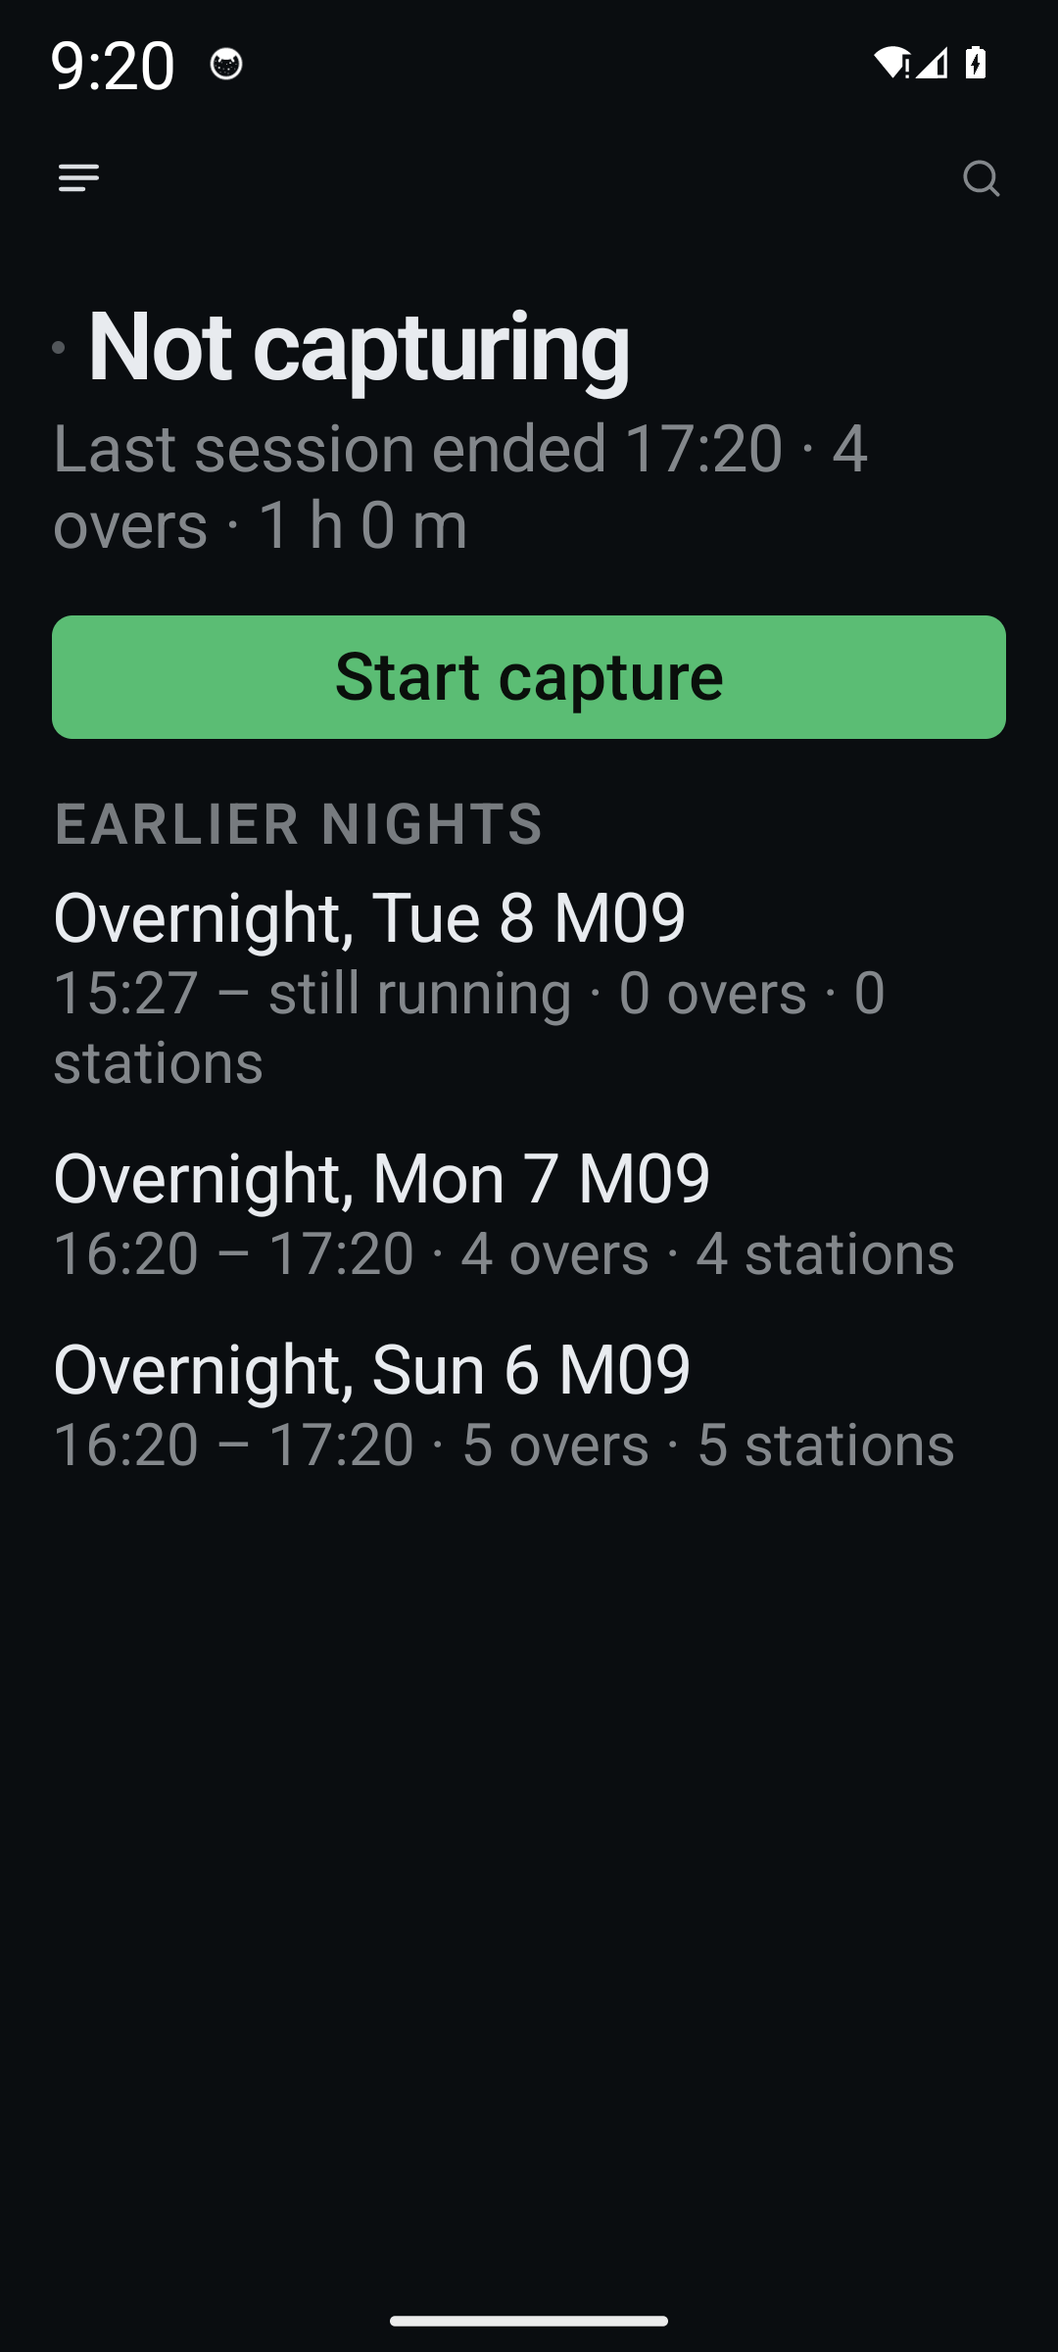
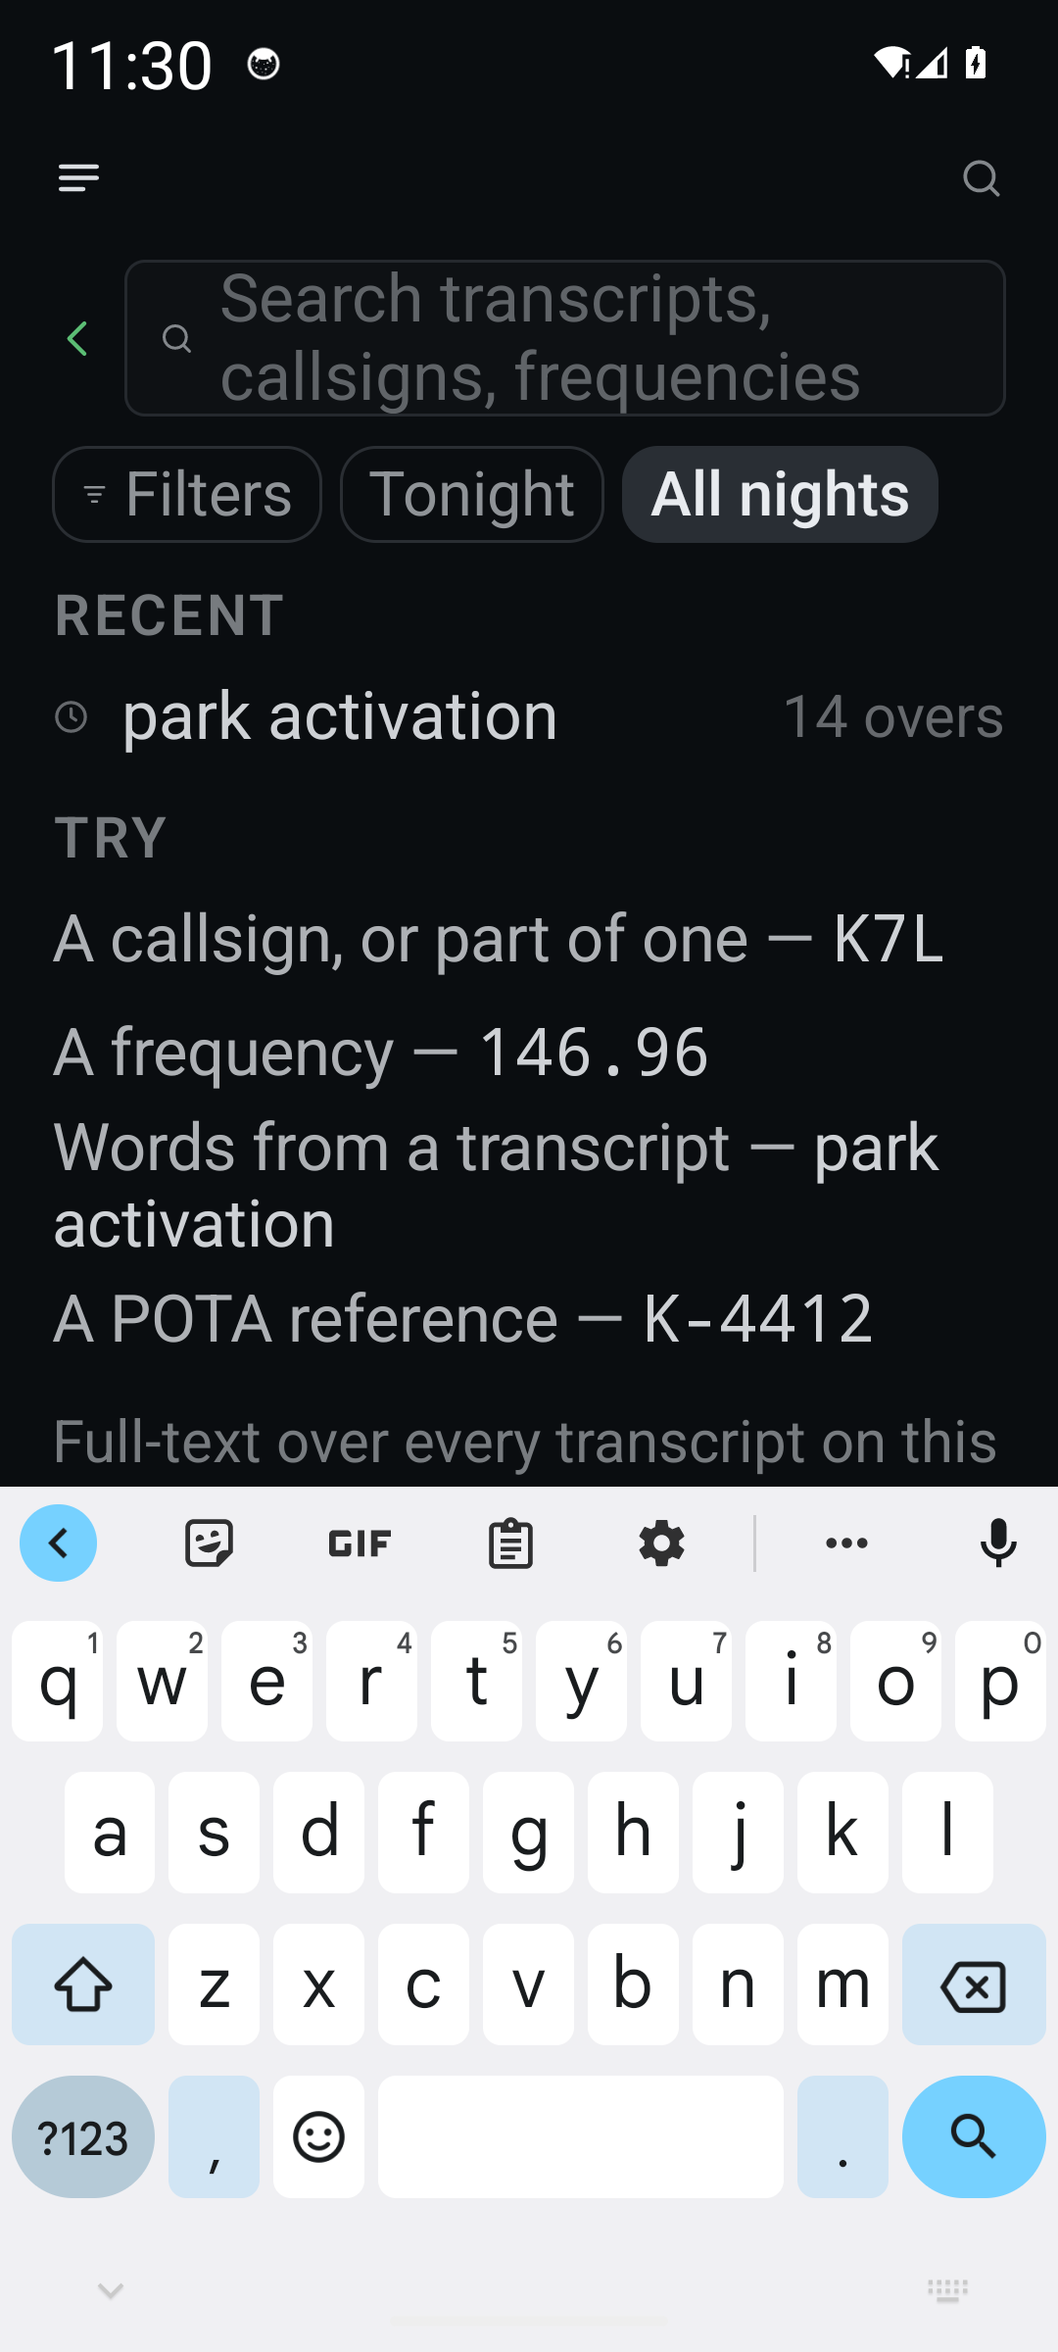
ui-conformance · V5 pass 2 at 8d1456f: 17 rows closed; R-270..R-277 filed (R-272 Split halt); screenshots

diff --git a/results/ui-audit/register.md b/results/ui-audit/register.md
@@ -115,7 +115,7 @@ in the row).
 | R-071 | station | `Station` | Detail is title + "N transmissions" + two charts + "THIS WEEK VS LAST" caption lines + non-tappable rows. The artboard: a facts table (overs with `Log`, attribution split, frequencies, first/last heard), "When they are around" with a legend line and a one-sentence summary, `Recent overs` with `All 612`, rows that open the over. Rows must be tappable (intent §0). | design | fixed |
 | R-072 | station › pattern | `Station-Pattern`, FR-UI-11/12 | Day-of-week is rendered as a second bar chart. The artboard is an hour × day grid with the not-listening hatch per cell, a three-swatch legend, a By hour / Hour × day / Change over time toggle, and a "What this says" list that names the unknown days and hours explicitly. The week-over-week text lines are the "change over time" data and belong under that toggle. | design | fixed |
 | R-073 | station › identity | `Station-Identity`, FR-SPK-10, constitution III | Absent: how the station is known (heard / lexicon / voiceprint cluster / name you gave), the never-leaves-the-device statement, `Rename`, `Split`. | spec | fixed |
-| R-074 | frequencies | `Frequencies`, `Frequency`, `Frequency-Change` | List rows are frequency + count. The artboard: what it is (repeater · band · mode), tonight's count and station count, a 14-night sparkline with hatched nights, "busier than usual" in amber. Detail lacks the facts table (offset, tone, listened hours, nets), the typical-night chart, `Regulars`. `Frequency-Change` (departure vs usual, with the cause) is absent. | design V5 @f8430b8: NOT fixed on device — FQ02 facts (Listened / Nets rows), subtitle (offset · tone · type), chart axis labels and caption still missing; see R-216. WP8 @c013149: Listened/Nets rows, chart axis+caption+More added; repeater offset/tone stays omitted (no :data column). | spec | fixed |
+| R-074 | frequencies | `Frequencies`, `Frequency`, `Frequency-Change` | List rows are frequency + count. The artboard: what it is (repeater · band · mode), tonight's count and station count, a 14-night sparkline with hatched nights, "busier than usual" in amber. Detail lacks the facts table (offset, tone, listened hours, nets), the typical-night chart, `Regulars`. `Frequency-Change` (departure vs usual, with the cause) is absent. | design V5 @f8430b8: NOT fixed on device — FQ02 facts (Listened / Nets rows), subtitle (offset · tone · type), chart axis labels and caption still missing; see R-216. WP8 @c013149: Listened/Nets rows, chart axis+caption+More added; repeater offset/tone stays omitted (no :data column). | spec | closed |
 | R-075 | station, frequency | `Charts` | Chart title says "(UTC)" while `ReaderPolling` buckets day-of-week in `ZoneId.systemDefault()`. Artboards and the operator's expectation are local time on both. Resolve to local, and drop the zone from the title. | spec | fixed |
 
 ## Setup — WP9
@@ -217,22 +217,22 @@ Filed by the emulator validators (plan §E) against the build named in each row;
 | R-178 | every banner @2x | `Fail-Storage`, `Main`, `Capture-Status` | V2 @3e2d4ee: at font scale 2.0 the banner grows but the content beneath does not move down — Now's failed-state title and Capture-Status's elapsed line render behind the banner's bottom edge. Resolves with the banner-in-content-column fix (R-164). `storage-warn/F06-banner@2x.png`, `storage-warn/N04-capture-status@2x.png`. WP11b. | spec | fixed |
 | R-179 | recovery toasts (R-103) | `Flow-Degrade` | V2 @3e2d4ee: could not be exercised — `scenario.ps1` force-stops the app before each broadcast, so no running UI observes a degraded→nominal transition; a raw broadcast without force-stop did not visibly change the thermal state within ~6 s. Needs a `-NoRestart` option on `scenario.ps1` (or a documented raw-broadcast recipe) and a check that the receiver updates holders in-process. WP4 (`tools/ui-audit`, `app/src/debug`). | spec | closed |
 | R-200 | Search initial | `Search` | V5 @f8430b8: the query field is not focused on entry (no keyboard); the screen shows the standard drawer+search header instead of the board's back-chevron + inline query field. `search-corpus/Q01-search.png`. WP7 (+WP3 for the header variant when SEARCH is current). WP7: focus + back-chevron header done; WP3 must suppress the host header for SEARCH. WP3 round 5: host header hidden on SEARCH; back chevron "Back". | spec | fixed |
-| R-201 | Search TRY hints | `Search` | V5 @f8430b8: "Words from a transcript — park activation" renders the example in mono; the board keeps prose examples in sans, mono only for callsign / frequency / POTA. `search-corpus/Q01b-typing.png`. WP7. | design | fixed |
-| R-202 | Search-Filters | `Search-Filters` | V5 @f8430b8: every attribution / include count reads 0 and the CTA reads "Show 0 overs" at default filters on a non-empty corpus — the empty state's own widen suggestion computes 14 for the same filters. `search-corpus/Q02-filters.png`. WP7. | halt | fixed |
-| R-203 | Search-Filters | `Search-Filters` | V5 @f8430b8: frequency/band chips are a generic HF list (160M…20M) instead of the heard frequencies (145.230 / 146.960) plus their bands (2 m / 70 cm). `search-corpus/Q02-filters.png`. WP7. | design | fixed |
+| R-201 | Search TRY hints | `Search` | V5 @f8430b8: "Words from a transcript — park activation" renders the example in mono; the board keeps prose examples in sans, mono only for callsign / frequency / POTA. `search-corpus/Q01b-typing.png`. WP7. | design | closed |
+| R-202 | Search-Filters | `Search-Filters` | V5 @f8430b8: every attribution / include count reads 0 and the CTA reads "Show 0 overs" at default filters on a non-empty corpus — the empty state's own widen suggestion computes 14 for the same filters. `search-corpus/Q02-filters.png`. WP7. | halt | closed |
+| R-203 | Search-Filters | `Search-Filters` | V5 @f8430b8: frequency/band chips are a generic HF list (160M…20M) instead of the heard frequencies (145.230 / 146.960) plus their bands (2 m / 70 cm). `search-corpus/Q02-filters.png`. WP7. | design | closed |
 | R-204 | Search results | `Search-Results`, `Search-Unavailable`, FR-UI-3 | V5 @f8430b8: every text query produces "Text search is unavailable right now" (100 % reproducible from a fresh `search-corpus`; `Retry` does not help) — the real grouped/highlighted results are never reachable. Capture the actual exception on device (logcat) — if the emulator's SQLite lacks FTS5, `:data` needs a bundled SQLite or an FTS4/LIKE fallback (lead decision once diagnosed). `search-corpus/Q05-unavailable.png`. WP7 (diagnose) → `:data`. DIAGNOSED (WP7): the API 34 emulator's platform SQLite has no fts5 module ("no such module: fts5" at CREATE VIRTUAL TABLE); `OrtDatabase` assumes fts5 on minSdk 26 and only builds the index in onCreate. Lead decision: bundle a SQLite with FTS5 in `:data` (also fixes Robolectric's missing fts5). | halt | building |
 | R-205 | LogRow time/frequency columns | `Rows`, guide §6.5 | V5 @f8430b8: the shared row's mono time (52px) and frequency (56px) columns wrap mid-value at default scale ("16:28:5" / "6") on search results and station recent overs; 3 lines at 2.0. Columns must fit their content (`widthIn(min)` + no wrap, `maxLines = 1`, and the guide's column widths). `search-corpus/Q03-back-intact.png`, `stations-14-nights/ST02-detail.png`. WP2. | design | closed |
-| R-206 | Stations list | `Stations`, `States` | V5 @f8430b8: every row shows the Unknown marker and label regardless of the station's real attribution (WA7HJR has 10/10 CONFIRMED on its own detail; the row's description even names the callsign). The dominant-state derivation or the row's marker binding is wrong. `stations-14-nights/ST01.png`. WP8. | halt | fixed |
-| R-207 | Stations list | `Stations` | V5 @f8430b8: column headers read TIME / FREQ / STATION / LAST (a Log header) instead of station / tonight / last; no "N heard all time · M tonight" subtitle; no `Most heard` sort action; no trailing "N unidentified voices · M overs" row; last-heard is a raw "2026-09-08 05:37 UTC" instead of local mono time. `stations-14-nights/ST01.png`. WP8. | design | fixed |
-| R-208 | Station detail | `Station` | V5 @f8430b8: no state marker beside the callsign title; the context sentence ("Net control, Tuesday night net · heard 14 nights of 14") is missing; First / Last heard are raw ISO timestamps with a literal UTC suffix (R-075 fixed the chart title only). `stations-14-nights/ST02-detail.png`. WP8. | spec | fixed |
-| R-209 | Station-Pattern, Hour × day | `Station-Pattern` | V5 @f8430b8: the grid is transposed — hours as rows and days as columns with no hour labels; the board is days as rows (Mon…Sun on the left) and hours as columns labelled along the top; legend reads "heard / quiet" instead of "listened, not heard / heard often". `stations-14-nights/ST03-hourxday2.png`. WP8 (+WP2 `DayOfWeekGrid` orientation). | design | fixed |
-| R-210 | Station-Pattern | `Station-Pattern` | V5 @f8430b8: subtitle reads "Local time" instead of "14 nights of listening, 25 Aug – 7 Sep". `stations-14-nights/ST03-pattern2.png`. WP8. | polish | fixed |
-| R-211 | Station-Pattern @2x | `Station-Pattern`, guide §6.3 | V5 @f8430b8: at font scale 2.0 the third mode chip ("Change over time") is clipped off-screen and the chip row does not scroll — chip rows must scroll horizontally when they overflow. `stations-14-nights/ST03@2x.png`. WP2 (`FilterChipRow` scrolls) + WP8. | spec | fixed |
-| R-212 | Station-Identity, Frequency regulars | `Station-Identity`, `Frequency` | V5 @f8430b8: "heard 10 time(s)", "6 over(s) · 6 session(s)" — the `(s)` placeholder leaks into copy; use the shared plural helper. `stations-14-nights/ST-kebab2.png`, `FQ02-detail.png`. WP8. | design | fixed |
-| R-213 | Station-Identity, Voice | `Station-Identity` | V5 @f8430b8: "One cluster, 0 overs" while the sub-line says "10 with the callsign heard · 0 inferred" — the total must equal the breakdown. `stations-14-nights/ST-kebab2.png`. WP8. | spec | fixed |
-| R-214 | Station-Identity | `Station-Identity` | V5 @f8430b8: no state markers on the Callsign / Lexicon / Voiceprint / Nearest rows and the HEARD section label is missing. `stations-14-nights/ST-kebab2.png`. WP8. | design | fixed |
-| R-215 | Frequencies list | `Frequencies` | V5 @f8430b8: no "5 heard all time · 2 tonight" subtitle under the title. `stations-14-nights/FQ01.png`. WP8. | polish | fixed |
-| R-216 | Frequency detail, Frequency-Change | `Frequency`, `Frequency-Change` | V5 @f8430b8: facts table lacks Listened (nights of N · hours) and Nets rows; subtitle shows "2 m · FM" without repeater offset / tone / type; the hour chart lacks axis labels, the "no hatch: always listening here" caption and `More`. FQ03 is unreachable because no scenario seeds a busier-than-usual night — add `frequency-change` to `app/src/debug`. `stations-14-nights/FQ02-detail.png`. WP8. | spec | fixed |
+| R-206 | Stations list | `Stations`, `States` | V5 @f8430b8: every row shows the Unknown marker and label regardless of the station's real attribution (WA7HJR has 10/10 CONFIRMED on its own detail; the row's description even names the callsign). The dominant-state derivation or the row's marker binding is wrong. `stations-14-nights/ST01.png`. WP8. | halt | closed |
+| R-207 | Stations list | `Stations` | V5 @f8430b8: column headers read TIME / FREQ / STATION / LAST (a Log header) instead of station / tonight / last; no "N heard all time · M tonight" subtitle; no `Most heard` sort action; no trailing "N unidentified voices · M overs" row; last-heard is a raw "2026-09-08 05:37 UTC" instead of local mono time. `stations-14-nights/ST01.png`. WP8. | design | closed |
+| R-208 | Station detail | `Station` | V5 @f8430b8: no state marker beside the callsign title; the context sentence ("Net control, Tuesday night net · heard 14 nights of 14") is missing; First / Last heard are raw ISO timestamps with a literal UTC suffix (R-075 fixed the chart title only). `stations-14-nights/ST02-detail.png`. WP8. | spec | closed |
+| R-209 | Station-Pattern, Hour × day | `Station-Pattern` | V5 @f8430b8: the grid is transposed — hours as rows and days as columns with no hour labels; the board is days as rows (Mon…Sun on the left) and hours as columns labelled along the top; legend reads "heard / quiet" instead of "listened, not heard / heard often". `stations-14-nights/ST03-hourxday2.png`. WP8 (+WP2 `DayOfWeekGrid` orientation). | design | closed |
+| R-210 | Station-Pattern | `Station-Pattern` | V5 @f8430b8: subtitle reads "Local time" instead of "14 nights of listening, 25 Aug – 7 Sep". `stations-14-nights/ST03-pattern2.png`. WP8. | polish | closed |
+| R-211 | Station-Pattern @2x | `Station-Pattern`, guide §6.3 | V5 @f8430b8: at font scale 2.0 the third mode chip ("Change over time") is clipped off-screen and the chip row does not scroll — chip rows must scroll horizontally when they overflow. `stations-14-nights/ST03@2x.png`. WP2 (`FilterChipRow` scrolls) + WP8. | spec | closed |
+| R-212 | Station-Identity, Frequency regulars | `Station-Identity`, `Frequency` | V5 @f8430b8: "heard 10 time(s)", "6 over(s) · 6 session(s)" — the `(s)` placeholder leaks into copy; use the shared plural helper. `stations-14-nights/ST-kebab2.png`, `FQ02-detail.png`. WP8. | design | closed |
+| R-213 | Station-Identity, Voice | `Station-Identity` | V5 @f8430b8: "One cluster, 0 overs" while the sub-line says "10 with the callsign heard · 0 inferred" — the total must equal the breakdown. `stations-14-nights/ST-kebab2.png`. WP8. | spec | closed |
+| R-214 | Station-Identity | `Station-Identity` | V5 @f8430b8: no state markers on the Callsign / Lexicon / Voiceprint / Nearest rows and the HEARD section label is missing. `stations-14-nights/ST-kebab2.png`. WP8. | design | closed |
+| R-215 | Frequencies list | `Frequencies` | V5 @f8430b8: no "5 heard all time · 2 tonight" subtitle under the title. `stations-14-nights/FQ01.png`. WP8. | polish | closed |
+| R-216 | Frequency detail, Frequency-Change | `Frequency`, `Frequency-Change` | V5 @f8430b8: facts table lacks Listened (nights of N · hours) and Nets rows; subtitle shows "2 m · FM" without repeater offset / tone / type; the hour chart lacks axis labels, the "no hatch: always listening here" caption and `More`. FQ03 is unreachable because no scenario seeds a busier-than-usual night — add `frequency-change` to `app/src/debug`. `stations-14-nights/FQ02-detail.png`. WP8. | spec | closed |
 | R-180 | D01–D03 Why section, D05 | `Detail-Why`, FR-UI-8 | V4 @59383e0: "Why this callsign" is a raw text dump ("Lattice: ACOUSTIC · model phonetic-lattice-v1", prior rows labelled `callsign-history` / `database` — key names, not guide §9 prose) with no lattice slots, prior bars or ranked candidates; **`Full lattice` is a dead tap** — the same screen re-renders, D05 is never reached. R-051 reopened. `overnight/D05-why.png`. WP6. | halt | open |
 | R-181 | D01–D04, F18 | `Detail`, guide §6.16 | V4 @59383e0: `WaveformCard` draws only the play button and duration — the bar row is empty on every over, idle or playing. R-054 reopened. `overnight/D01-confirmed-rich.png`. WP6 (+WP2 if the card needs real samples). | design | open |
 | R-182 | D01, D03 transcript | `Detail-Confirmed`, FR-UI-4 | V4 @59383e0: the callsign span highlights only a literal callsign string; a phonetically spelled callsign ("whiskey seven november papa charlie" — the board's own example) gets no highlight. Use the resolver's recorded span, not string search. `overnight/D01-confirmed-rich.png`. WP6. | spec | open |
@@ -284,3 +284,11 @@ Filed by the emulator validators (plan §E) against the build named in each row;
 | R-265 | S12 Setup-Done rows | `Setup-Done`, guide §11.2, FR-A11Y-2 | V7 @b94bb5e: the five status rows are plain non-focusable `Text`s — TalkBack never reads "Input, USB Audio Device, verified"; each row needs a merged, focusable semantics node (WP2's `KeyValueRow` should provide it — check it does, else fix there). `setup-verified/S12-ready-via-main@2x-retry.png`. WP9 (+WP2). | halt | open |
 | R-266 | Now CAN GET BETTER item | `Main`, guide §9 | V7 @b94bb5e: "captured at T1 tier" — raw tier token in Now's digest item while Improve says "tier 1" correctly; use the shared tier label. `field-tier1/R01-improve@2x.png`. WP4. | design | fixed |
 | R-267 | CF04 Settings-Assets tokens row | `Settings-Assets`, guide §9 | V7 @b94bb5e: the "Whisper tiny.en — tokens" sub-line renders a multi-paragraph maintainer note (SHA-1 vs SHA-256, HuggingFace behaviour, "checked 2026-09-07") verbatim — wrong audience; the row shows size · checksum prefix · tier only, and the note moves to a developer comment. `model-missing/CF04-assets-scrolled@2x.png`. WP10. | design | open |
+| R-270 | ST02 Recent overs rows | `Rows`, guide §6.5, cf. R-205 | V5 pass 2 @8d1456f: Station detail's recent-overs rows still wrap the time/frequency columns mid-value ("05:37:0/0") — the screen hand-rolls its row instead of using WP2's fixed `LogRow`/column widths. `stations-14-nights/ST02-detail-pass2.png`. WP8. | design | open |
+| R-271 | ST03 Hour × day axis | `Station-Pattern` | V5 pass 2: the hour labels "00 06 12 18" wrap to two lines each at default scale. `stations-14-nights/ST03-hourxday-pass2.png`. WP2 (`DayOfWeekGrid` axis `softWrap = false`) / WP8. | polish | open |
+| R-272 | ST04 Split | `Station-Identity`, `Fail-Cluster` | V5 pass 2: tapping `Split` shows a bare "Loading…" forever — `SplitSubScreen` treats `voiceSplitCandidates == null` as both "loading" and "nothing to split", with no header, no back and no empty state; logcat floods with `SQLiteConnectionPool leaked` while waiting (a DB opened per call and never closed). Render a real empty state ("one cluster, nothing to split") with back, and reuse one `OrtDatabase`. `stations-14-nights/ST04-split-stuck.png`. WP8. | halt | open |
+| R-273 | FQ03 subtitle | `Frequency-Change` | V5 pass 2: "Tonight · 20 overs where the usual is 2" lacks the departure window ("Tonight, 02:00–04:00 · …"). `frequency-change/FQ03-change.png`. WP8. | design | open |
+| R-274 | FQ03 chart | `Frequency-Change` | V5 pass 2: a bare sparkline instead of the dual-series comparison — tonight's amber bars over the usual green line across a labelled 22:00–06:00 axis, with the "tonight / usual, N nights" legend. `frequency-change/FQ03-change.png`. WP8 (+WP2 if a comparison chart component is warranted). | design | open |
+| R-275 | FQ03 closing paragraph | `Frequency-Change` | V5 pass 2: only the first sentence renders; the board continues with the explanation, the digest note and the "will not change what usual means" sentence. `frequency-change/FQ03-change.png`. WP8. | design | open |
+| R-276 | FQ03 "The N overs" | `Frequency-Change` | V5 pass 2: the action is not clickable — it must open the frequency's over list (LOG filtered to the frequency and window via the host callback). `frequency-change/FQ03-change.png`. WP8 (+WP3 route). | spec | open |
+| R-277 | ST01 filter chips @2x | `Stations`, guide §6.3 | V5 pass 2: the Tonight / All time / Named / Unidentified chip row clips ("Uni") and does not scroll at font scale 2.0 — use WP2's scrolling `FilterChipRow` as ST03 does. `stations-14-nights/ST01-unidentified-chip-clipped@2x.png`. WP8. | design | open |
